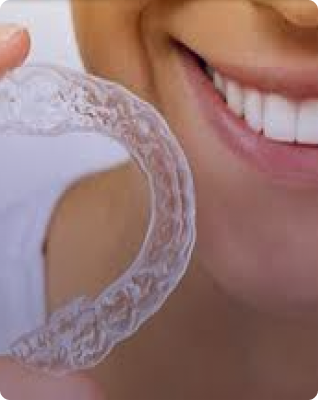
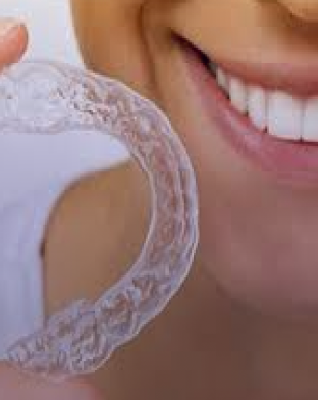
arreglo bordes fe imagenes en index y pagina de tratamientos

diff --git a/css/custom.css b/css/custom.css
@@ -18479,6 +18479,10 @@ main {
     background-color: #E4E3FF;
 }
 
+img.img-fluid {
+    border-radius: 5px;
+}
+
 #about-us {
     border-top: 1px solid #ADACEB;
     background-color: #e4e2ff;
@@ -18622,7 +18626,6 @@ footer .col-12.col-md-3 h2, footer .col-12.col-md-3 .h2 {
 .caj-imagen img {
     width: auto;
     height: 200px;
-    border-radius: 0;
     object-fit: cover;
 }
 

diff --git a/scss/biosalud-theme.scss b/scss/biosalud-theme.scss
@@ -129,6 +129,10 @@ main{
 #treatment{
 	background-color: #E4E3FF;
 }
+
+img.img-fluid {
+    border-radius: 5px;
+}
 #about-us{
 	border-top:1px solid #ADACEB;
 	background-color: #e4e2ff;

diff --git a/scss/_tratamientos.scss b/scss/_tratamientos.scss
@@ -48,7 +48,6 @@
 .caj-imagen img{
     width:auto;
     height: 200px;
-    border-radius: 0;
     object-fit: cover;
 }
 .caj-text{
